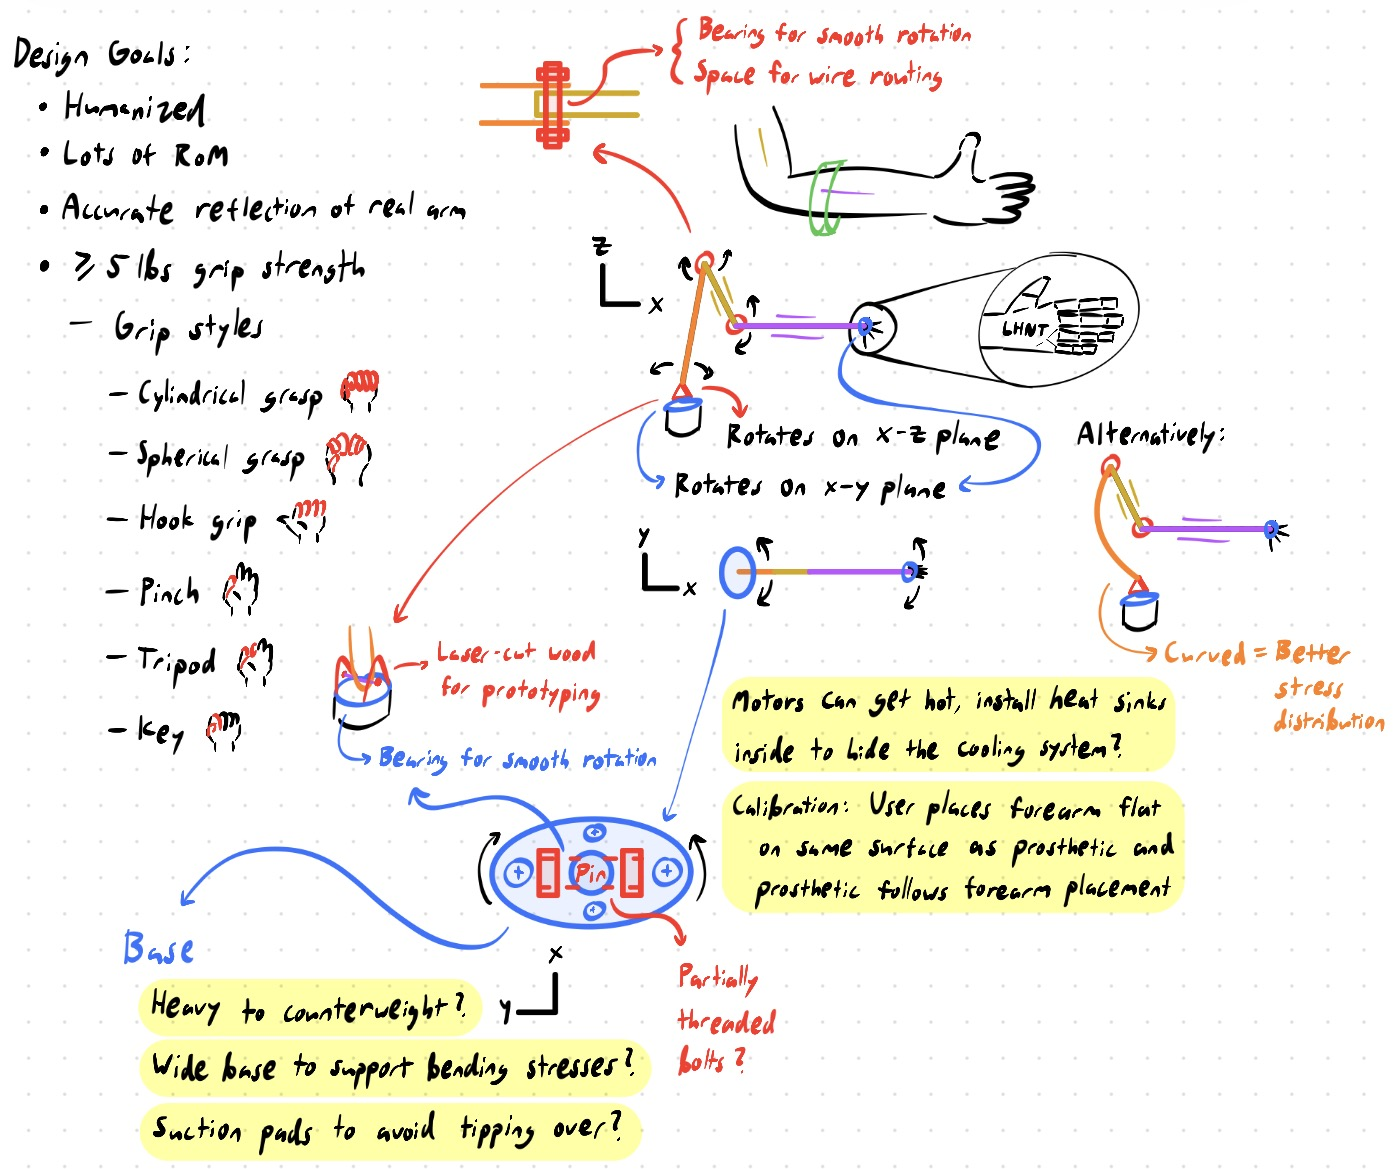
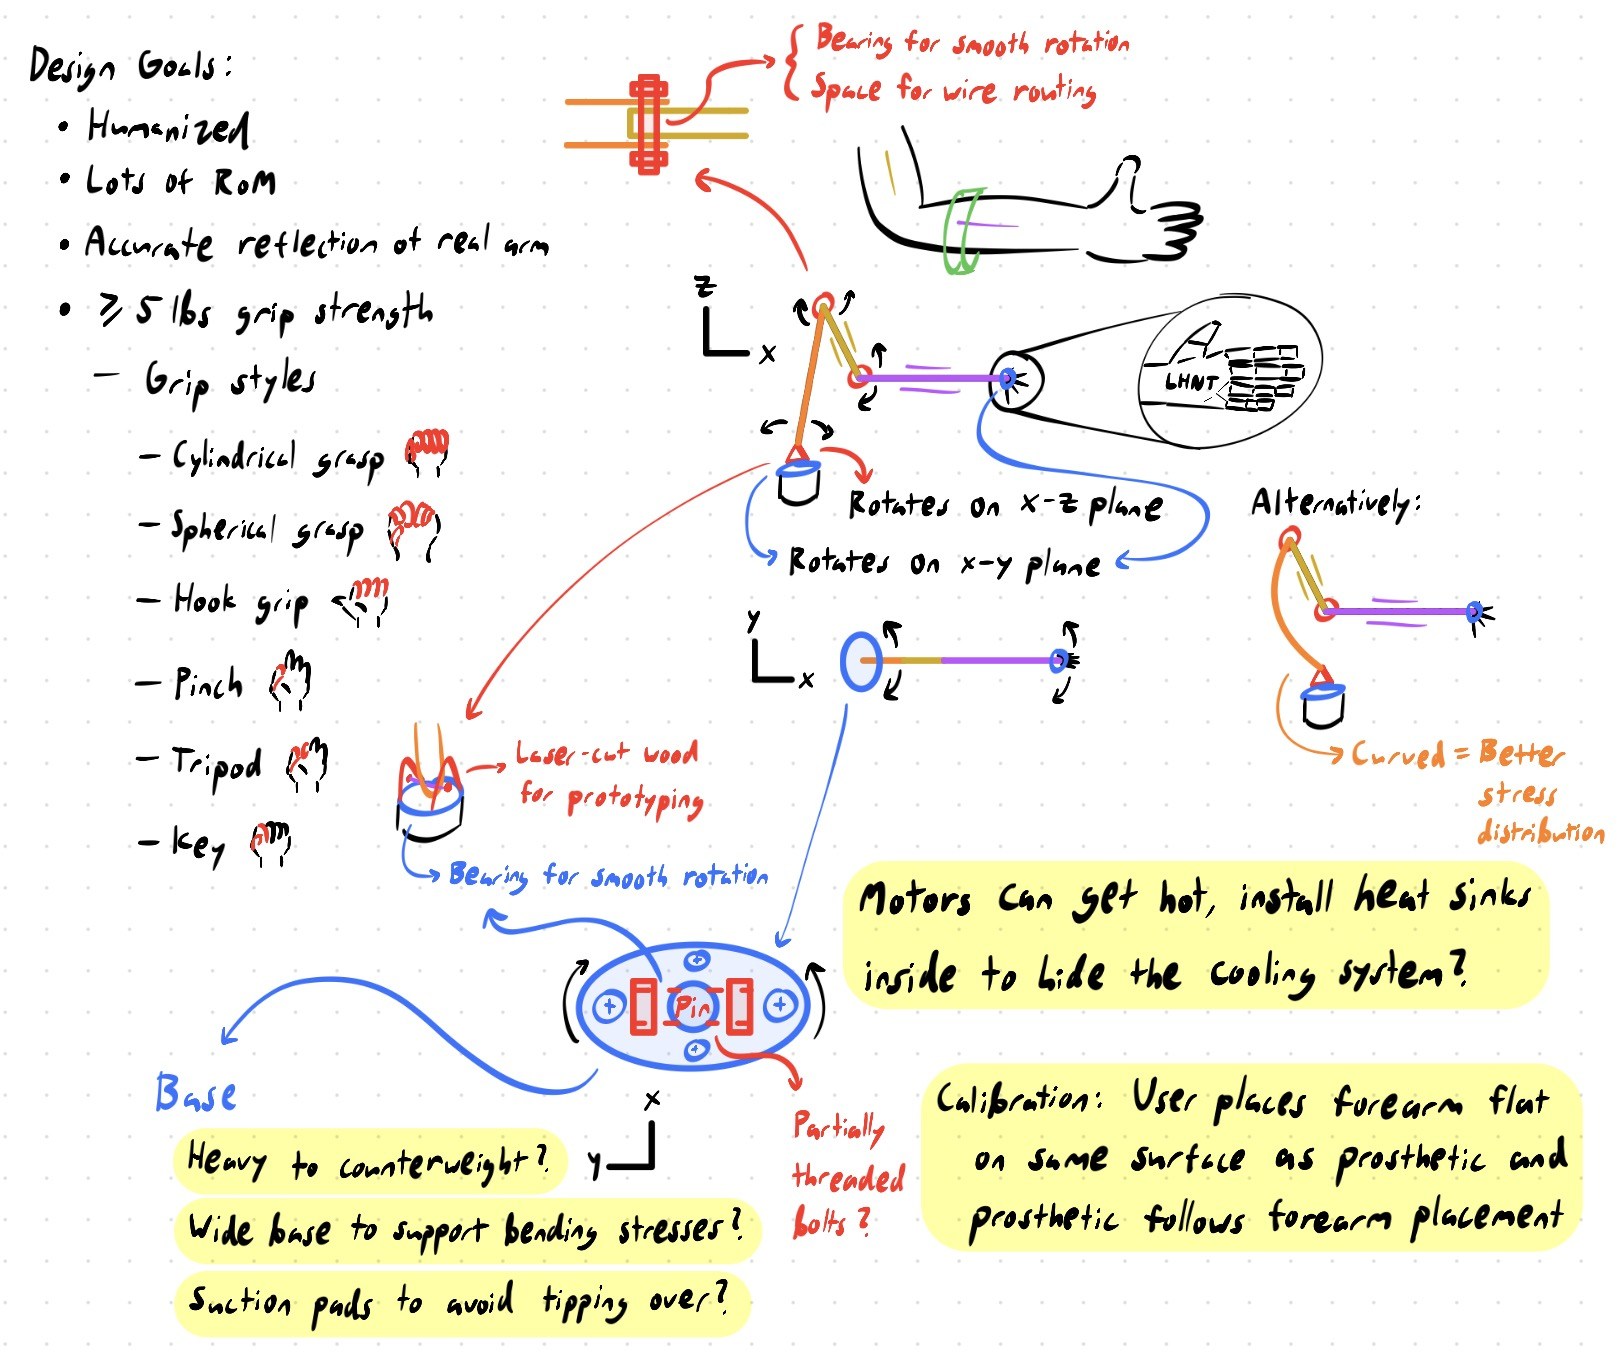
Reload the dev preview when images or other public files change

diff --git a/src/content/projects/neurotech.ts b/src/content/projects/neurotech.ts
@@ -15,7 +15,7 @@ const neurotech = {
   team: 'Prosthetic, Mechanical',
   tags: ['Assistive Tech', 'CAD', 'Prototyping', '3D Printing', 'User-Centered Design'],
   tools: ['SolidWorks', 'SolidWorks Simulation', '3D printing'],
-  cover: { src: 'neurotech/cover.jpg' /* , caption: 'Prototype headset' */ },
+  cover: { src: 'neurotech/cover.jpg' },
 
   /*
   highlights: [
@@ -51,7 +51,7 @@ const neurotech = {
       paragraphs: [
         'I looked at existing open-source upper-limb prosthetics such as the Ruka V2 robotic hand, then sketched concepts for actuation mechanisms based on the limited materials we have access to as a student organization.',
       ],
-      images: [{ src: 'neurotech/concepts.jpg', caption: 'Early Concept Sketch' }],
+      images: [{ src: 'neurotech/cover.jpg', caption: 'Early Concept Sketch' }],
       centered: true
     },
     {
@@ -60,7 +60,9 @@ const neurotech = {
       images: [
         { src: 'neurotech/sketch-1.jpg', caption: 'Preliminary Finger Model Sketches' },
         { src: 'neurotech/sketch-2.jpg', caption: 'Gripping Actuation Concepts' },
-        { src: 'neurotech/sketch-3.jpg', caption: 'Opposable Thumb Linkage Concept' },
+        { src: 'neurotech/sketch-3.jpg', caption: 'Alternate Finger Actuation Idea' },
+        { src: 'neurotech/sketch-4.jpg', caption: 'Opposable Thumb Mechanism Concept' },
+        { src: 'neurotech/sketch-5.jpg', caption: 'Modular Palm Grip Pads, "Clip-On" for Ease of Hand Access and Manufacturability' },
       ],
       columns: 1,
       centered: true

diff --git a/vite.config.ts b/vite.config.ts
@@ -1,6 +1,6 @@
 import { copyFileSync } from 'node:fs'
 import { resolve } from 'node:path'
-import { defineConfig, type Plugin } from 'vite'
+import { defineConfig, normalizePath, type Plugin } from 'vite'
 import react from '@vitejs/plugin-react'
 
 // GitHub Pages serves this site from a sub-path like https://<user>.github.io/<repo>/.
@@ -26,9 +26,31 @@ function spaFallback(): Plugin {
   }
 }
 
+// Vite only live-updates code and styles. Files in public/ (your images, resume,
+// etc.) are served as-is, so replacing one used to need a manual browser refresh.
+// This reloads the page automatically whenever a file in public/ is added,
+// replaced, or deleted while `npm run dev` is running.
+function reloadOnPublicChange(): Plugin {
+  return {
+    name: 'reload-on-public-change',
+    apply: 'serve',
+    configureServer(server) {
+      const publicDir = normalizePath(server.config.publicDir)
+      const reload = (file: string) => {
+        if (normalizePath(file).startsWith(`${publicDir}/`)) {
+          server.ws.send({ type: 'full-reload' })
+        }
+      }
+      server.watcher.on('add', reload)
+      server.watcher.on('change', reload)
+      server.watcher.on('unlink', reload)
+    },
+  }
+}
+
 export default defineConfig({
   base,
-  plugins: [react(), spaFallback()],
+  plugins: [react(), spaFallback(), reloadOnPublicChange()],
   server: {
     // This project lives in OneDrive, which can hide file saves from the normal
     // file watcher. Polling checks for changes every 300 ms so Ctrl+S always
